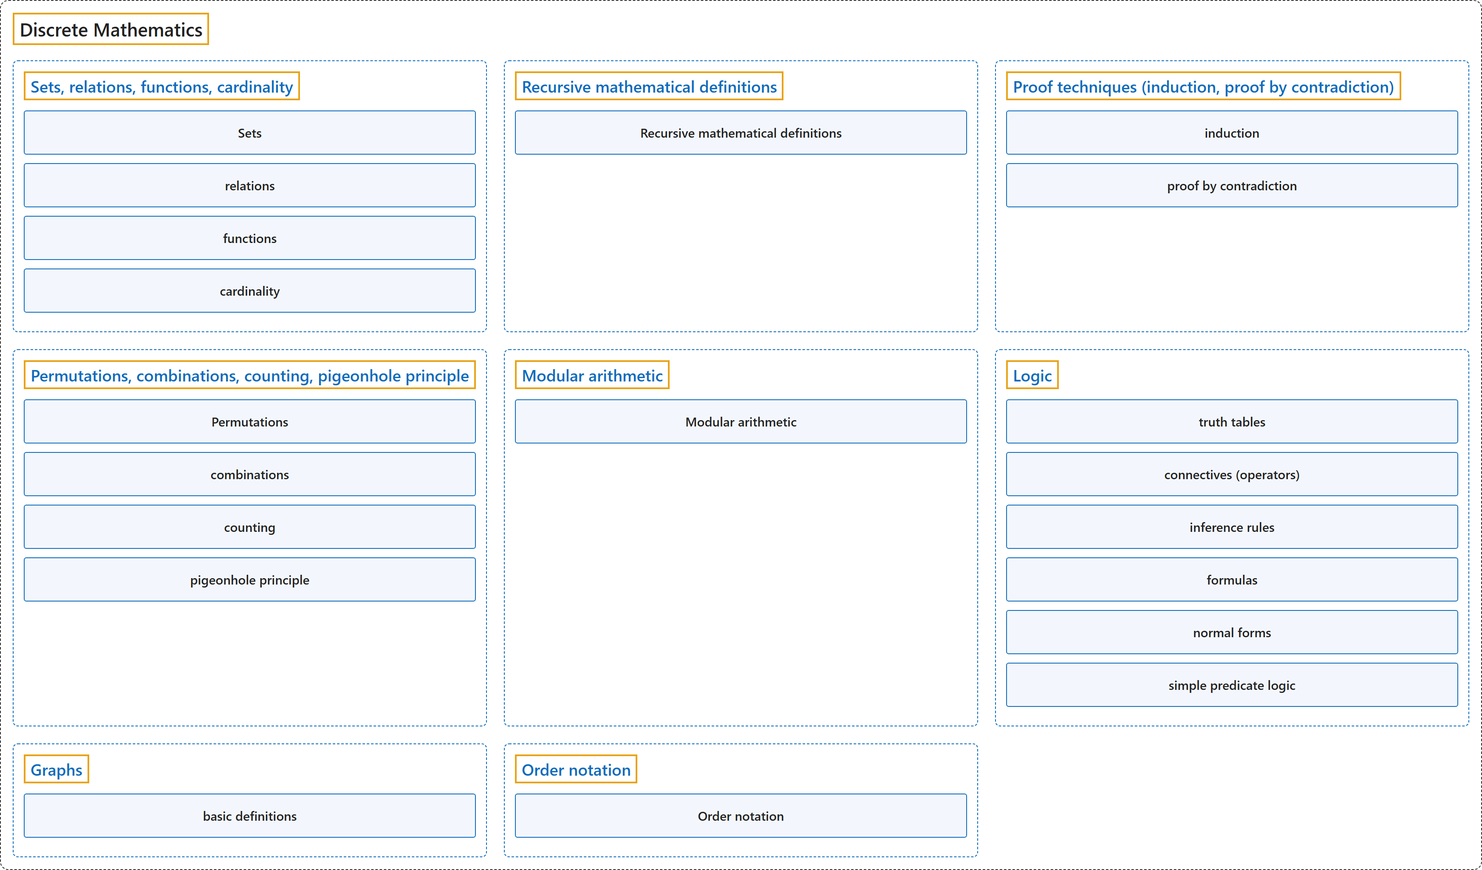
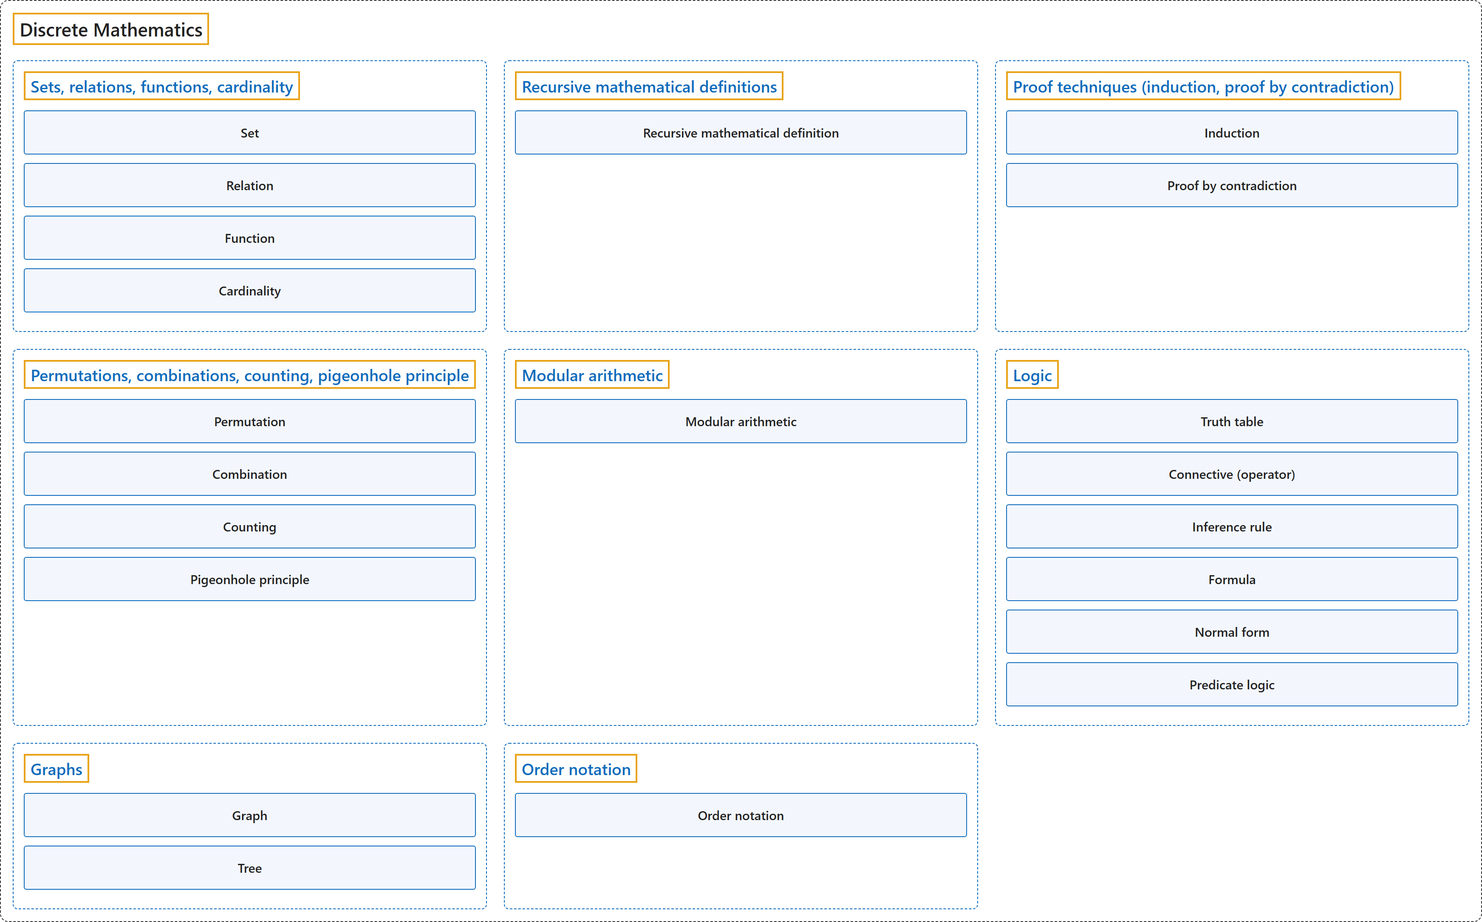
feat(math): CS2023 MSF 1.1-1.8 Discrete Mathematics terms
Each topic page gets a figure (one column of term boxes) and a Glossary with
one row per term, quoting cached MathWorld entries checked word for word:
sets to cardinality, recursive definition, induction and proof by
contradiction, permutation to pigeonhole principle, modular arithmetic,
the six logic terms, graph and tree, order notation. The unit figure uses
the same singular term names.

diff --git a/figures/math/cs2023/discrete-mathematics/discrete-mathematics.html b/figures/math/cs2023/discrete-mathematics/discrete-mathematics.html
@@ -16,26 +16,26 @@
   <div class="groups">
     <div class="group">
       <div class="title">Sets, relations, functions, cardinality</div>
-      <div class="item">Sets</div>
-      <div class="item">relations</div>
-      <div class="item">functions</div>
-      <div class="item">cardinality</div>
+      <div class="item">Set</div>
+      <div class="item">Relation</div>
+      <div class="item">Function</div>
+      <div class="item">Cardinality</div>
     </div>
     <div class="group">
       <div class="title">Recursive mathematical definitions</div>
-      <div class="item">Recursive mathematical definitions</div>
+      <div class="item">Recursive mathematical definition</div>
     </div>
     <div class="group">
       <div class="title">Proof techniques (induction, proof by contradiction)</div>
-      <div class="item">induction</div>
-      <div class="item">proof by contradiction</div>
+      <div class="item">Induction</div>
+      <div class="item">Proof by contradiction</div>
     </div>
     <div class="group">
       <div class="title">Permutations, combinations, counting, pigeonhole principle</div>
-      <div class="item">Permutations</div>
-      <div class="item">combinations</div>
-      <div class="item">counting</div>
-      <div class="item">pigeonhole principle</div>
+      <div class="item">Permutation</div>
+      <div class="item">Combination</div>
+      <div class="item">Counting</div>
+      <div class="item">Pigeonhole principle</div>
     </div>
     <div class="group">
       <div class="title">Modular arithmetic</div>
@@ -43,16 +43,17 @@
     </div>
     <div class="group">
       <div class="title">Logic</div>
-      <div class="item">truth tables</div>
-      <div class="item">connectives (operators)</div>
-      <div class="item">inference rules</div>
-      <div class="item">formulas</div>
-      <div class="item">normal forms</div>
-      <div class="item">simple predicate logic</div>
+      <div class="item">Truth table</div>
+      <div class="item">Connective (operator)</div>
+      <div class="item">Inference rule</div>
+      <div class="item">Formula</div>
+      <div class="item">Normal form</div>
+      <div class="item">Predicate logic</div>
     </div>
     <div class="group">
       <div class="title">Graphs</div>
-      <div class="item">basic definitions</div>
+      <div class="item">Graph</div>
+      <div class="item">Tree</div>
     </div>
     <div class="group">
       <div class="title">Order notation</div>

diff --git a/figures/math/cs2023/discrete-mathematics/logic.html b/figures/math/cs2023/discrete-mathematics/logic.html
@@ -1,0 +1,23 @@
+<!doctype html>
+<html><head><meta charset="utf-8">
+<style>
+  body { margin: 0; background: #fff; font-family: "Segoe UI", sans-serif; }
+  .frame { display: inline-block; margin: 2px; padding: 14px; border: 1.5px dashed #333; border-radius: 10px; }
+  .title { display: inline-block; border: 2px solid #e8a317; padding: 2px 6px; font-size: 22px; font-weight: 600; color: #222; margin-bottom: 18px; }
+  .col { display: flex; flex-direction: column; min-width: 360px; padding: 0 12px; }
+  .item { border: 2px solid #e8a317; background: #f3f7fd; border-radius: 3px; height: 34px; margin-bottom: 8px; white-space: nowrap;
+          display: flex; align-items: center; justify-content: center; font-size: 14px; font-weight: 600; text-align: center; padding: 0 14px; color: #222; }
+</style></head>
+<body>
+<div class="frame" id="fig">
+  <div class="title">Logic</div>
+  <div class="col">
+    <div class="item">Truth table</div>
+    <div class="item">Connective (operator)</div>
+    <div class="item">Inference rule</div>
+    <div class="item">Formula</div>
+    <div class="item">Normal form</div>
+    <div class="item">Predicate logic</div>
+  </div>
+</div>
+</body></html>

diff --git a/figures/math/cs2023/discrete-mathematics/permutations-combinations-counting-pigeonhole-principle.html b/figures/math/cs2023/discrete-mathematics/permutations-combinations-counting-pigeonhole-principle.html
@@ -1,0 +1,21 @@
+<!doctype html>
+<html><head><meta charset="utf-8">
+<style>
+  body { margin: 0; background: #fff; font-family: "Segoe UI", sans-serif; }
+  .frame { display: inline-block; margin: 2px; padding: 14px; border: 1.5px dashed #333; border-radius: 10px; }
+  .title { display: inline-block; border: 2px solid #e8a317; padding: 2px 6px; font-size: 22px; font-weight: 600; color: #222; margin-bottom: 18px; }
+  .col { display: flex; flex-direction: column; min-width: 360px; padding: 0 12px; }
+  .item { border: 2px solid #e8a317; background: #f3f7fd; border-radius: 3px; height: 34px; margin-bottom: 8px; white-space: nowrap;
+          display: flex; align-items: center; justify-content: center; font-size: 14px; font-weight: 600; text-align: center; padding: 0 14px; color: #222; }
+</style></head>
+<body>
+<div class="frame" id="fig">
+  <div class="title">Permutations, combinations, counting, pigeonhole principle</div>
+  <div class="col">
+    <div class="item">Permutation</div>
+    <div class="item">Combination</div>
+    <div class="item">Counting</div>
+    <div class="item">Pigeonhole principle</div>
+  </div>
+</div>
+</body></html>

diff --git a/figures/math/cs2023/discrete-mathematics/sets-relations-functions-cardinality.html b/figures/math/cs2023/discrete-mathematics/sets-relations-functions-cardinality.html
@@ -1,0 +1,21 @@
+<!doctype html>
+<html><head><meta charset="utf-8">
+<style>
+  body { margin: 0; background: #fff; font-family: "Segoe UI", sans-serif; }
+  .frame { display: inline-block; margin: 2px; padding: 14px; border: 1.5px dashed #333; border-radius: 10px; }
+  .title { display: inline-block; border: 2px solid #e8a317; padding: 2px 6px; font-size: 22px; font-weight: 600; color: #222; margin-bottom: 18px; }
+  .col { display: flex; flex-direction: column; min-width: 360px; padding: 0 12px; }
+  .item { border: 2px solid #e8a317; background: #f3f7fd; border-radius: 3px; height: 34px; margin-bottom: 8px; white-space: nowrap;
+          display: flex; align-items: center; justify-content: center; font-size: 14px; font-weight: 600; text-align: center; padding: 0 14px; color: #222; }
+</style></head>
+<body>
+<div class="frame" id="fig">
+  <div class="title">Sets, relations, functions, cardinality</div>
+  <div class="col">
+    <div class="item">Set</div>
+    <div class="item">Relation</div>
+    <div class="item">Function</div>
+    <div class="item">Cardinality</div>
+  </div>
+</div>
+</body></html>

diff --git a/figures/math/cs2023/discrete-mathematics/proof-techniques-induction-proof-by-contradiction.html b/figures/math/cs2023/discrete-mathematics/proof-techniques-induction-proof-by-contradiction.html
@@ -1,0 +1,19 @@
+<!doctype html>
+<html><head><meta charset="utf-8">
+<style>
+  body { margin: 0; background: #fff; font-family: "Segoe UI", sans-serif; }
+  .frame { display: inline-block; margin: 2px; padding: 14px; border: 1.5px dashed #333; border-radius: 10px; }
+  .title { display: inline-block; border: 2px solid #e8a317; padding: 2px 6px; font-size: 22px; font-weight: 600; color: #222; margin-bottom: 18px; }
+  .col { display: flex; flex-direction: column; min-width: 360px; padding: 0 12px; }
+  .item { border: 2px solid #e8a317; background: #f3f7fd; border-radius: 3px; height: 34px; margin-bottom: 8px; white-space: nowrap;
+          display: flex; align-items: center; justify-content: center; font-size: 14px; font-weight: 600; text-align: center; padding: 0 14px; color: #222; }
+</style></head>
+<body>
+<div class="frame" id="fig">
+  <div class="title">Proof techniques (induction, proof by contradiction)</div>
+  <div class="col">
+    <div class="item">Induction</div>
+    <div class="item">Proof by contradiction</div>
+  </div>
+</div>
+</body></html>

diff --git a/figures/math/cs2023/discrete-mathematics/recursive-mathematical-definitions.html b/figures/math/cs2023/discrete-mathematics/recursive-mathematical-definitions.html
@@ -1,0 +1,18 @@
+<!doctype html>
+<html><head><meta charset="utf-8">
+<style>
+  body { margin: 0; background: #fff; font-family: "Segoe UI", sans-serif; }
+  .frame { display: inline-block; margin: 2px; padding: 14px; border: 1.5px dashed #333; border-radius: 10px; }
+  .title { display: inline-block; border: 2px solid #e8a317; padding: 2px 6px; font-size: 22px; font-weight: 600; color: #222; margin-bottom: 18px; }
+  .col { display: flex; flex-direction: column; min-width: 360px; padding: 0 12px; }
+  .item { border: 2px solid #e8a317; background: #f3f7fd; border-radius: 3px; height: 34px; margin-bottom: 8px; white-space: nowrap;
+          display: flex; align-items: center; justify-content: center; font-size: 14px; font-weight: 600; text-align: center; padding: 0 14px; color: #222; }
+</style></head>
+<body>
+<div class="frame" id="fig">
+  <div class="title">Recursive mathematical definitions</div>
+  <div class="col">
+    <div class="item">Recursive mathematical definition</div>
+  </div>
+</div>
+</body></html>

diff --git a/figures/math/cs2023/discrete-mathematics/graphs.html b/figures/math/cs2023/discrete-mathematics/graphs.html
@@ -1,0 +1,19 @@
+<!doctype html>
+<html><head><meta charset="utf-8">
+<style>
+  body { margin: 0; background: #fff; font-family: "Segoe UI", sans-serif; }
+  .frame { display: inline-block; margin: 2px; padding: 14px; border: 1.5px dashed #333; border-radius: 10px; }
+  .title { display: inline-block; border: 2px solid #e8a317; padding: 2px 6px; font-size: 22px; font-weight: 600; color: #222; margin-bottom: 18px; }
+  .col { display: flex; flex-direction: column; min-width: 360px; padding: 0 12px; }
+  .item { border: 2px solid #e8a317; background: #f3f7fd; border-radius: 3px; height: 34px; margin-bottom: 8px; white-space: nowrap;
+          display: flex; align-items: center; justify-content: center; font-size: 14px; font-weight: 600; text-align: center; padding: 0 14px; color: #222; }
+</style></head>
+<body>
+<div class="frame" id="fig">
+  <div class="title">Graphs</div>
+  <div class="col">
+    <div class="item">Graph</div>
+    <div class="item">Tree</div>
+  </div>
+</div>
+</body></html>

diff --git a/figures/math/cs2023/discrete-mathematics/modular-arithmetic.html b/figures/math/cs2023/discrete-mathematics/modular-arithmetic.html
@@ -1,0 +1,18 @@
+<!doctype html>
+<html><head><meta charset="utf-8">
+<style>
+  body { margin: 0; background: #fff; font-family: "Segoe UI", sans-serif; }
+  .frame { display: inline-block; margin: 2px; padding: 14px; border: 1.5px dashed #333; border-radius: 10px; }
+  .title { display: inline-block; border: 2px solid #e8a317; padding: 2px 6px; font-size: 22px; font-weight: 600; color: #222; margin-bottom: 18px; }
+  .col { display: flex; flex-direction: column; min-width: 360px; padding: 0 12px; }
+  .item { border: 2px solid #e8a317; background: #f3f7fd; border-radius: 3px; height: 34px; margin-bottom: 8px; white-space: nowrap;
+          display: flex; align-items: center; justify-content: center; font-size: 14px; font-weight: 600; text-align: center; padding: 0 14px; color: #222; }
+</style></head>
+<body>
+<div class="frame" id="fig">
+  <div class="title">Modular arithmetic</div>
+  <div class="col">
+    <div class="item">Modular arithmetic</div>
+  </div>
+</div>
+</body></html>

diff --git a/figures/math/cs2023/discrete-mathematics/order-notation.html b/figures/math/cs2023/discrete-mathematics/order-notation.html
@@ -1,0 +1,18 @@
+<!doctype html>
+<html><head><meta charset="utf-8">
+<style>
+  body { margin: 0; background: #fff; font-family: "Segoe UI", sans-serif; }
+  .frame { display: inline-block; margin: 2px; padding: 14px; border: 1.5px dashed #333; border-radius: 10px; }
+  .title { display: inline-block; border: 2px solid #e8a317; padding: 2px 6px; font-size: 22px; font-weight: 600; color: #222; margin-bottom: 18px; }
+  .col { display: flex; flex-direction: column; min-width: 360px; padding: 0 12px; }
+  .item { border: 2px solid #e8a317; background: #f3f7fd; border-radius: 3px; height: 34px; margin-bottom: 8px; white-space: nowrap;
+          display: flex; align-items: center; justify-content: center; font-size: 14px; font-weight: 600; text-align: center; padding: 0 14px; color: #222; }
+</style></head>
+<body>
+<div class="frame" id="fig">
+  <div class="title">Order notation</div>
+  <div class="col">
+    <div class="item">Order notation</div>
+  </div>
+</div>
+</body></html>

diff --git a/docs/math/cs2023/discrete-mathematics/logic.md b/docs/math/cs2023/discrete-mathematics/logic.md
@@ -1,22 +1,34 @@
 ---
 title: "1.6 Logic"
-description: "CS2023 MSF-Discrete, 1.6 Logic (CS Core): truth tables, connectives (operators), inference rules, formulas, normal forms, simple predicate logic."
+description: "CS2023 MSF-Discrete, 1.6 Logic (CS Core): Truth table, Connective (operator), Inference rule, Formula, Normal form, Predicate logic."
 ms.date: 2026-10-27
 ---
 
 # 1.6 Logic
 
-Sources: [CS2023 Body of Knowledge, MSF-Discrete, topic 6, p. 125](https://csed.acm.org/wp-content/uploads/2024/04/3.1-Body-of-Knowledge-1.pdf#page=125).
-
 Tier: CS Core.
 
-Parts:
+## Classification
 
-- truth tables
-- connectives (operators)
-- inference rules
-- formulas
-- normal forms
-- simple predicate logic
+![Logic: its 6 terms in one column, in the order CS2023 names them: Truth table, Connective (operator), Inference rule, Formula, Normal form, Predicate logic.](media/logic.png)
 
-Not written yet.
+## Glossary
+
+| Term | Definition | 中文翻译 | Source |
+|---|---|---|---|
+| **Truth table**<br>真值表 | "A truth table is a **two-dimensional array** with n+1 columns. The first n columns correspond to the possible values of n inputs, and the last column to the operation being performed. The rows list **all possible combinations of inputs** together with the corresponding outputs." | 真值表是一个有 n+1 列的**二维数组**。前 n 列对应 n 个输入的可能取值，最后一列对应所执行的运算。各行列出**所有可能的输入组合**以及对应的输出。 | [Weisstein, n.d.-f, "Truth table" entry, para. 1](https://mathworld.wolfram.com/TruthTable.html#:~:text=A%20truth%20table%20is%20a%20two%2Ddimensional%20array) |
+| **Connective (operator)**<br>联结词（运算符） | "A function, or the symbol representing a function, which corresponds to English conjunctions such as 'and,' 'or,' 'not,' etc. that **takes one or more truth values as input** and **returns a single truth value as output**." | 一种函数（或表示该函数的符号），对应英语中的 and、or、not 等连词，它**以一个或多个真值为输入**，并**输出单个真值**。 | [Weisstein, n.d.-a, "Connective" entry, para. 1](https://mathworld.wolfram.com/Connective.html#:~:text=takes%20one%20or%20more%20truth%20values%20as%20input) |
+| **Inference rule**<br>推理规则 | "A syllogism, also known as a rule of inference, is a **formal logical scheme** used to **draw a conclusion from a set of premises**." | 三段论也称为推理规则，是一种**形式逻辑格式**，用于**从一组前提得出结论**。 | [Weisstein, n.d.-e, "Syllogism" entry, para. 1](https://mathworld.wolfram.com/Syllogism.html#:~:text=also%20known%20as%20a%20rule%20of%20inference) |
+| **Formula**<br>公式 | "The term 'formula' is also commonly used in the theory of logic to mean **sentential formula** (also called a propositional formula), i.e., **a formula in propositional calculus**." | “公式”一词在逻辑理论中也常用来指**语句公式**（也称为命题公式），即**命题演算中的公式**。 | [Weisstein, n.d.-b, "Formula" entry, para. 2](https://mathworld.wolfram.com/Formula.html#:~:text=is%20also%20commonly%20used%20in%20the%20theory%20of%20logic) |
+| **Normal form**<br>范式 | "In general, it refers to a **way of representing objects** so that, although each may have many different names, **every possible name corresponds to exactly one object** ..." | 一般来说，它指一种**表示对象的方式**，使得尽管每个对象可能有许多不同的名称，**每个可能的名称都恰好对应一个对象**…… | [Weisstein, n.d.-c, "Normal form" entry, para. 1](https://mathworld.wolfram.com/NormalForm.html#:~:text=it%20refers%20to%20a%20way%20of%20representing%20objects) |
+| **Predicate logic**<br>谓词逻辑 | "Predicate calculus, also called predicate logic or functional calculus, is the **branch of formal logic** that deals with **representing the logical connections between statements** as well as the statements themselves." | 谓词演算也称为谓词逻辑或函数演算，是**形式逻辑的一个分支**，研究**表示陈述之间的逻辑联系**以及陈述本身。 | [Weisstein, n.d.-d, "Predicate calculus" entry, para. 1](https://mathworld.wolfram.com/PredicateCalculus.html#:~:text=also%20called%20predicate%20logic) |
+
+## References
+
+- Joint Task Force on Computing Curricula. (2024). *Computer science curricula 2023*. Association for Computing Machinery. <https://doi.org/10.1145/3664191>
+- Weisstein, E. W. (n.d.-a). *Connective*. MathWorld: A Wolfram Resource. Retrieved October 27, 2026, from <https://mathworld.wolfram.com/Connective.html>
+- Weisstein, E. W. (n.d.-b). *Formula*. MathWorld: A Wolfram Resource. Retrieved October 27, 2026, from <https://mathworld.wolfram.com/Formula.html>
+- Weisstein, E. W. (n.d.-c). *Normal form*. MathWorld: A Wolfram Resource. Retrieved October 27, 2026, from <https://mathworld.wolfram.com/NormalForm.html>
+- Weisstein, E. W. (n.d.-d). *Predicate calculus*. MathWorld: A Wolfram Resource. Retrieved October 27, 2026, from <https://mathworld.wolfram.com/PredicateCalculus.html>
+- Weisstein, E. W. (n.d.-e). *Syllogism*. MathWorld: A Wolfram Resource. Retrieved October 27, 2026, from <https://mathworld.wolfram.com/Syllogism.html>
+- Weisstein, E. W. (n.d.-f). *Truth table*. MathWorld: A Wolfram Resource. Retrieved October 27, 2026, from <https://mathworld.wolfram.com/TruthTable.html>

diff --git a/docs/math/cs2023/discrete-mathematics/permutations-combinations-counting-pigeonhole-principle.md b/docs/math/cs2023/discrete-mathematics/permutations-combinations-counting-pigeonhole-principle.md
@@ -1,13 +1,30 @@
 ---
 title: "1.4 Permutations, combinations, counting, pigeonhole principle"
-description: "CS2023 MSF-Discrete, 1.4 Permutations, combinations, counting, pigeonhole principle (CS Core)."
+description: "CS2023 MSF-Discrete, 1.4 Permutations, combinations, counting, pigeonhole principle (CS Core): Permutation, Combination, Counting, Pigeonhole principle."
 ms.date: 2026-10-27
 ---
 
 # 1.4 Permutations, combinations, counting, pigeonhole principle
 
-Sources: [CS2023 Body of Knowledge, MSF-Discrete, topic 4, p. 125](https://csed.acm.org/wp-content/uploads/2024/04/3.1-Body-of-Knowledge-1.pdf#page=125).
-
 Tier: CS Core.
 
-Not written yet.
+## Classification
+
+![Permutations, combinations, counting, pigeonhole principle: its 4 terms in one column, in the order CS2023 names them: Permutation, Combination, Counting, Pigeonhole principle.](media/permutations-combinations-counting-pigeonhole-principle.png)
+
+## Glossary
+
+| Term | Definition | 中文翻译 | Source |
+|---|---|---|---|
+| **Permutation**<br>排列 | "A permutation of a set S is a **one-to-one correspondence of S with itself**." | 集合 S 的排列是 **S 与它自身之间的一一对应**。 | [Weisstein, n.d.-d, "Permutation" entry, para. 1](https://mathworld.wolfram.com/Permutation.html#:~:text=is%20a%20one%2Dto%2Done%20correspondence%20of) |
+| **Combination**<br>组合 | "The number of ways of **picking k unordered outcomes** from **n possibilities**." | **选出 k 个无序结果**的方式数，这些结果取自 **n 种可能**。 | [Weisstein, n.d.-a, "Combination" entry, para. 1](https://mathworld.wolfram.com/Combination.html#:~:text=The%20number%20of%20ways%20of%20picking) |
+| **Counting**<br>计数 | (context) "Enumerative combinatorics is the part concerned specifically with **counting finite sets of objects** satisfying **prescribed conditions**." | （语境）枚举组合学是专门研究**对有限的对象集合计数**的部分，这些对象满足**规定的条件**。 | [Weisstein, n.d.-b, "Combinatorics" entry, para. 2](https://mathworld.wolfram.com/Combinatorics.html#:~:text=Enumerative%20combinatorics%20is%20the%20part%20concerned%20specifically%20with%20counting) |
+| **Pigeonhole principle**<br>鸽巢原理 | "A.k.a. the pigeonhole principle. Given n boxes and m>n objects, **at least one box must contain more than one object**." | 又称鸽巢原理。给定 n 个盒子和 m>n 个物体，**至少有一个盒子必须装有多于一个物体**。 | [Weisstein, n.d.-c, "Dirichlet's box principle" entry, para. 1](https://mathworld.wolfram.com/DirichletsBoxPrinciple.html#:~:text=at%20least%20one%20box%20must%20contain%20more%20than%20one%20object) |
+
+## References
+
+- Joint Task Force on Computing Curricula. (2024). *Computer science curricula 2023*. Association for Computing Machinery. <https://doi.org/10.1145/3664191>
+- Weisstein, E. W. (n.d.-a). *Combination*. MathWorld: A Wolfram Resource. Retrieved October 27, 2026, from <https://mathworld.wolfram.com/Combination.html>
+- Weisstein, E. W. (n.d.-b). *Combinatorics*. MathWorld: A Wolfram Resource. Retrieved October 27, 2026, from <https://mathworld.wolfram.com/Combinatorics.html>
+- Weisstein, E. W. (n.d.-c). *Dirichlet's box principle*. MathWorld: A Wolfram Resource. Retrieved October 27, 2026, from <https://mathworld.wolfram.com/DirichletsBoxPrinciple.html>
+- Weisstein, E. W. (n.d.-d). *Permutation*. MathWorld: A Wolfram Resource. Retrieved October 27, 2026, from <https://mathworld.wolfram.com/Permutation.html>

diff --git a/docs/math/cs2023/discrete-mathematics/sets-relations-functions-cardinality.md b/docs/math/cs2023/discrete-mathematics/sets-relations-functions-cardinality.md
@@ -1,13 +1,30 @@
 ---
 title: "1.1 Sets, relations, functions, cardinality"
-description: "CS2023 MSF-Discrete, 1.1 Sets, relations, functions, cardinality (CS Core)."
+description: "CS2023 MSF-Discrete, 1.1 Sets, relations, functions, cardinality (CS Core): Set, Relation, Function, Cardinality."
 ms.date: 2026-10-27
 ---
 
 # 1.1 Sets, relations, functions, cardinality
 
-Sources: [CS2023 Body of Knowledge, MSF-Discrete, topic 1, p. 125](https://csed.acm.org/wp-content/uploads/2024/04/3.1-Body-of-Knowledge-1.pdf#page=125).
-
 Tier: CS Core.
 
-Not written yet.
+## Classification
+
+![Sets, relations, functions, cardinality: its 4 terms in one column, in the order CS2023 names them: Set, Relation, Function, Cardinality.](media/sets-relations-functions-cardinality.png)
+
+## Glossary
+
+| Term | Definition | 中文翻译 | Source |
+|---|---|---|---|
+| **Set**<br>集合 | "A set is a finite or infinite **collection of objects** in which **order has no significance**, and multiplicity is generally also ignored (unlike a list or multiset)." | 集合是有限或无限的**对象的汇集**，其中**顺序没有意义**，重复次数通常也被忽略（不同于列表或多重集）。 | [Weisstein, n.d.-d, "Set" entry, para. 1](https://mathworld.wolfram.com/Set.html#:~:text=A%20set%20is%20a%20finite%20or%20infinite%20collection%20of%20objects) |
+| **Relation**<br>关系 | "A relation is **any subset of a Cartesian product**." | 关系是**笛卡儿积的任意子集**。 | [Weisstein, n.d.-c, "Relation" entry, para. 1](https://mathworld.wolfram.com/Relation.html#:~:text=A%20relation%20is%20any%20subset%20of%20a%20Cartesian%20product) |
+| **Function**<br>函数 | "A function is a relation that **uniquely associates members of one set** with **members of another set**." | 函数是一种关系，它把**一个集合的成员唯一地对应**到**另一个集合的成员**。 | [Weisstein, n.d.-b, "Function" entry, para. 1](https://mathworld.wolfram.com/Function.html#:~:text=A%20function%20is%20a%20relation%20that%20uniquely%20associates%20members%20of%20one%20set) |
+| **Cardinality**<br>基数 | "In formal set theory, a cardinal number (also called 'the cardinality') is a **type of number** defined in such a way that **any method of counting sets using it gives the same result**." | 在形式集合论中，基数（也称为 cardinality）是一种**数的类型**，它的定义方式保证**用它计数集合的任何方法都得到相同的结果**。 | [Weisstein, n.d.-a, "Cardinal number" entry, para. 2](https://mathworld.wolfram.com/CardinalNumber.html#:~:text=is%20a%20type%20of%20number%20defined%20in%20such%20a%20way%20that%20any%20method%20of%20counting%20sets) |
+
+## References
+
+- Joint Task Force on Computing Curricula. (2024). *Computer science curricula 2023*. Association for Computing Machinery. <https://doi.org/10.1145/3664191>
+- Weisstein, E. W. (n.d.-a). *Cardinal number*. MathWorld: A Wolfram Resource. Retrieved October 27, 2026, from <https://mathworld.wolfram.com/CardinalNumber.html>
+- Weisstein, E. W. (n.d.-b). *Function*. MathWorld: A Wolfram Resource. Retrieved October 27, 2026, from <https://mathworld.wolfram.com/Function.html>
+- Weisstein, E. W. (n.d.-c). *Relation*. MathWorld: A Wolfram Resource. Retrieved October 27, 2026, from <https://mathworld.wolfram.com/Relation.html>
+- Weisstein, E. W. (n.d.-d). *Set*. MathWorld: A Wolfram Resource. Retrieved October 27, 2026, from <https://mathworld.wolfram.com/Set.html>
